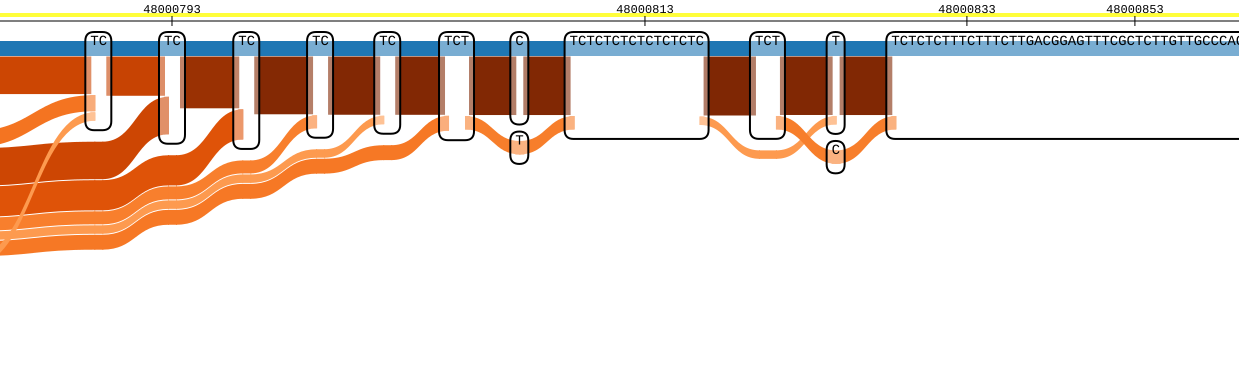
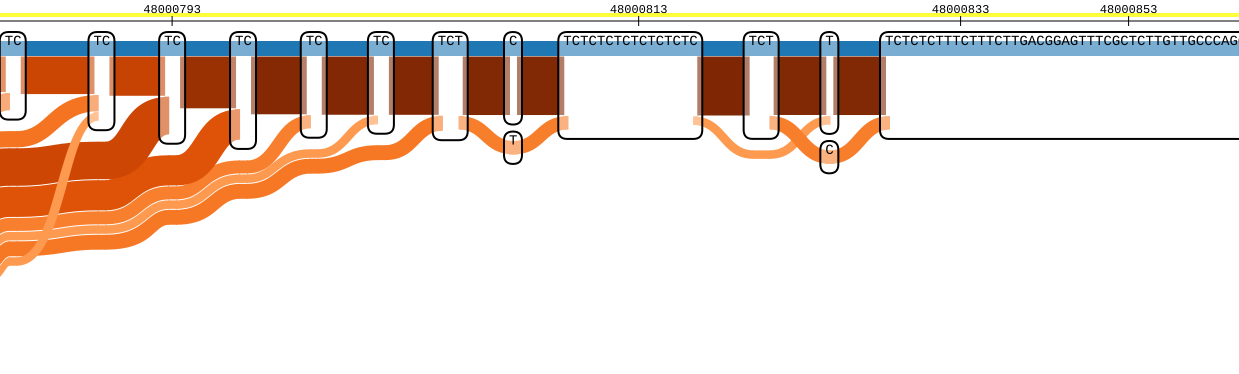
The README's chr20 figures are drawn from a hosted chr20 walk file with bases, not the gbz-base database
The whole-genome walk file has no bases to label the microsatellite's nodes
with, so a chr20 file written with --sequences now sits beside it on
jbrowse.org (63 MB, gfa-to-tabix 5.0.0) and is an example source. At 100 bp
of context it gives the same 464 haplotypes, 240 routes and 46 allele
lengths as the database did; the drawing is narrower, so the crops move.

diff --git a/src/config.test.ts b/src/config.test.ts
@@ -12,7 +12,8 @@ const hostedWalkFiles = config.DATA_SOURCES.flatMap(source =>
 
 describe('the hosted HPRC walk file', () => {
   it('is the format 8 file in the example data sources', () => {
-    expect(hostedWalkFiles).toEqual([HPRC_F8_WALKS])
+    expect(hostedWalkFiles).toContain(HPRC_F8_WALKS)
+    expect(hostedWalkFiles.filter(file => !file?.includes('-f8.'))).toEqual([])
   })
 
   it('is the format 8 file in docs/data.md', () => {

diff --git a/docs/headless-rendering.md b/docs/headless-rendering.md
@@ -52,10 +52,11 @@ A walk file is cut 1,000 bp past the region either side and a `.gbz.db` 100 bp,
 so a figure of a narrow window comes out far wider from the walk file.
 `--context 100` cuts a walk file at 100 bp instead, or any other number of bp
 ([what a narrower context leaves out](data.md#reading-gfa-to-tabix-walk-files)),
-and the figures on this page drawn from a bundled walk file pass it. The two
-hosted HPRC figures are still drawn from the `.gbz.db`: the hosted walk file has
-no bases to label the chr20 repeat's nodes with, and it lays the GSTM1 window
-out a third wider, with the deletion's far end off the crop.
+and the figures on this page drawn from a walk file pass it. The chr20 figures
+below come from a hosted chr20 walk file written with `--sequences`, since the
+whole-genome one has no bases to label the repeat's nodes with. The GSTM1 figure
+is still drawn from the `.gbz.db`: the walk file lays that window out a third
+wider, with the deletion's far end off the crop.
 
 ## Rendering a link
 
@@ -297,30 +298,29 @@ simplify it. The app leaves the coarsened view uncapped for the same reason.
 ## Hosted graphs
 
 A source whose graph is a URL is read by range request here as it is in the
-browser, companion haplotype index included, so a figure over HPRC release 2.1
-needs no local copy of its 10 GB database:
+browser, so a figure over HPRC release 2.1 needs no local copy of the graph:
 
 ```bash
-pnpm tubemap-cli --source 'HPRC v2.1 whole genome (gbz-base, URL-hosted)' \
+pnpm tubemap-cli --source 'HPRC v2.1 chr20 with bases (gfa-to-tabix walks, URL-hosted)' \
                  --region 'GRCh38#chr20:48000600-48001000' --coarsened \
-                 --out str.svg
+                 --context 100 --out str.svg
 ```
 
 That is 464 haplotypes on 240 distinct walks. Drawn at one lane per haplotype
-that comes out 23036 by 1549 units — too wide for a page, and at that many lanes
+that comes out 13917 by 1594 units — too wide for a page, and at that many lanes
 solid color soup: 464 haplotypes read as noise, not signal. `--coarsened` (see
 [View options](#view-options) above) fixes both: with no reads loaded, it
 aggregates every haplotype but the reference into one band per node-to-node edge
 instead, each shaded by its share of the haplotypes, so the figure comes out
-13300 by 373. The [README](../README.md)'s two chr20 figures are crops of it,
+11784 by 373. The [README](../README.md)'s two chr20 figures are crops of it,
 one over the allele staircase and one where the haplotypes come back into
 register:
 
 ```bash
 rsvg-convert -z 1 str.svg -o str.png
-magick str.png -crop 3515x385+1165+0 +repage -background white -flatten \
+magick str.png -crop 2824x374+895+0 +repage -background white -flatten \
   docs/images/hprc-v2.1-chr20-str.png
-magick str.png -crop 1239x385+9988+0 +repage -background white -flatten \
+magick str.png -crop 1239x374+8478+0 +repage -background white -flatten \
   docs/images/hprc-v2.1-chr20-register.png
 ```
 

diff --git a/README.md b/README.md
@@ -14,11 +14,11 @@ et al.
 ![HPRC v2.1 chr20 microsatellite](docs/images/hprc-v2.1-chr20-str.png)
 
 464 HPRC v2.1 haplotypes at a chr20 CT microsatellite — 46 allele lengths, 240
-distinct routes. Read straight from HPRC's 10 GB hosted `.gbz.db` by range
-request: no server, no download. Coarsened (Sankey) view bands the haplotypes by
+distinct routes. Read straight from a hosted chr20 walk file with bases (63 MB,
+[gfa-to-tabix](https://github.com/GMOD/gfa-to-tabix)) by range request: no
+server, no download. Coarsened (Sankey) view bands the haplotypes by
 node-to-node edge instead of drawing all 464 as separate lines, darker the more
-haplotypes take that edge; haplotypes named from the companion index
-(`HG01243#2#…`, not `unknown#57`).
+haplotypes take that edge.
 
 ![HPRC v2.1 chr20 haplotypes in register](docs/images/hprc-v2.1-chr20-register.png)
 
@@ -204,7 +204,7 @@ _Claude Code AI was used during this work._
 [demo-brca1]:
   https://cmdcolin.github.io/sequenceTubeMap/?name=snp1kg-BRCA1%20(gfa-to-tabix%20walks)&region=17:1-100
 [demo-chr20]:
-  https://cmdcolin.github.io/sequenceTubeMap/?name=HPRC%20v2.1%20whole%20genome%20(gbz-base%2C%20URL-hosted)&region=GRCh38%23chr20:48000600-48001000&vis=coarsenedReadView
+  https://cmdcolin.github.io/sequenceTubeMap/?name=HPRC%20v2.1%20chr20%20with%20bases%20(gfa-to-tabix%20walks%2C%20URL-hosted)&region=GRCh38%23chr20:48000600-48001000&vis=coarsenedReadView&context=100
 [demo-reads]:
   https://cmdcolin.github.io/sequenceTubeMap/?name=snp1kg-BRCA1%20(gfa-to-tabix%20walks)&region=17:1-1000&vis=compressedView
 [demo-coarsened]:
